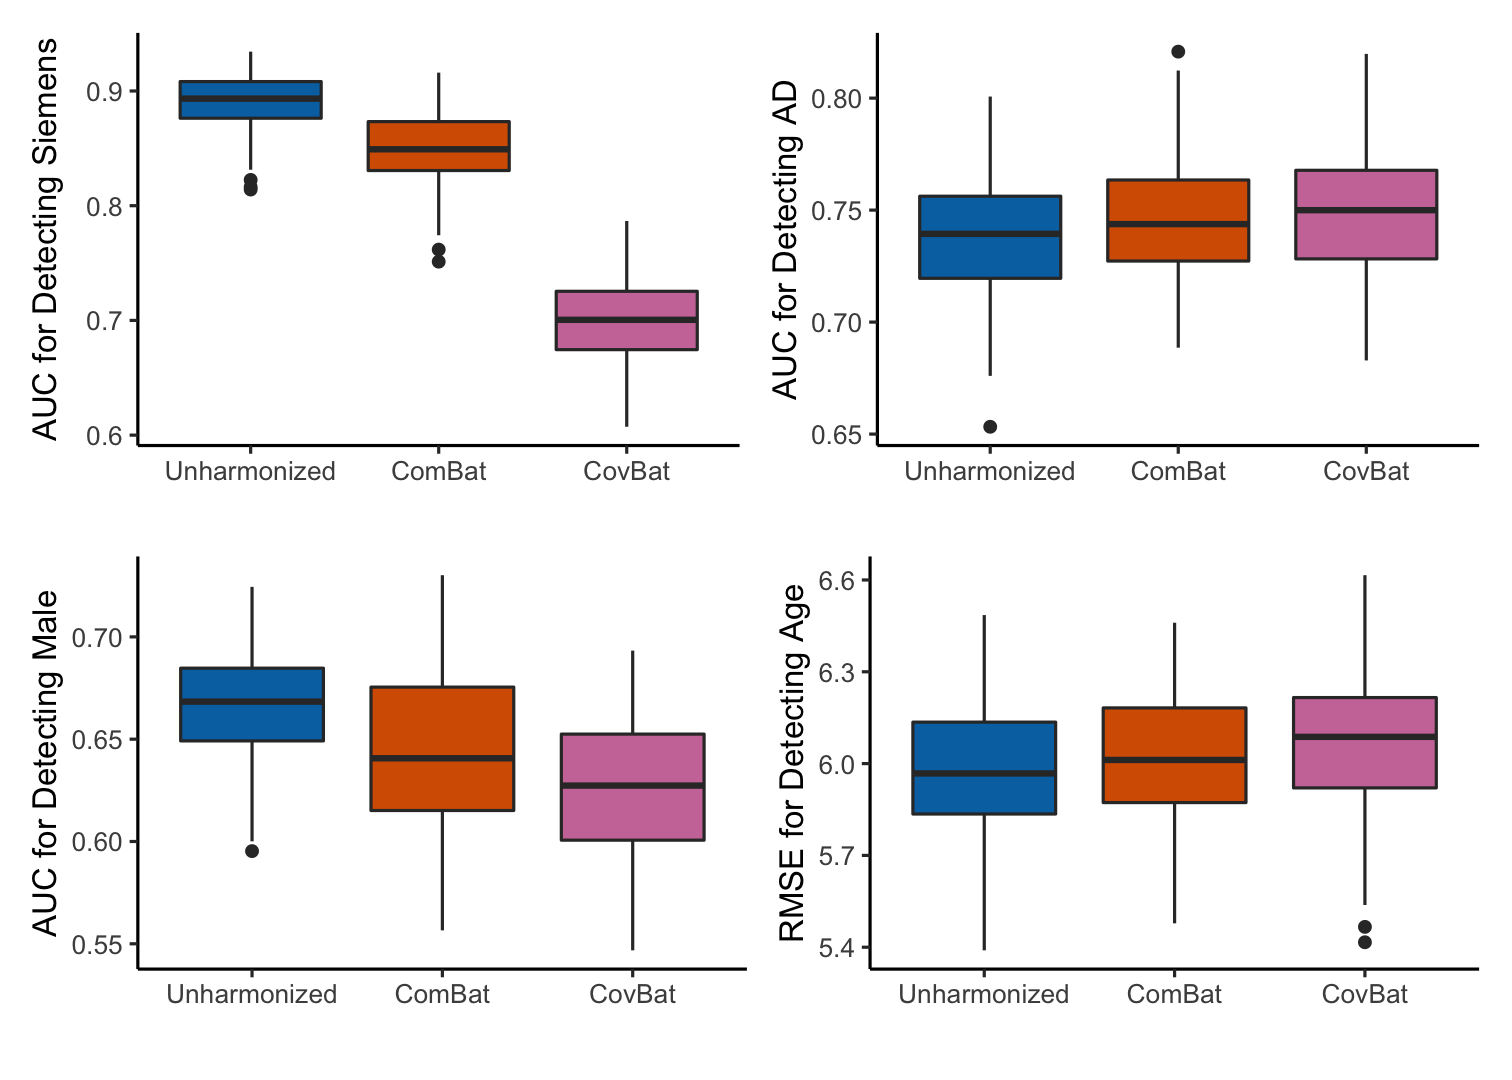
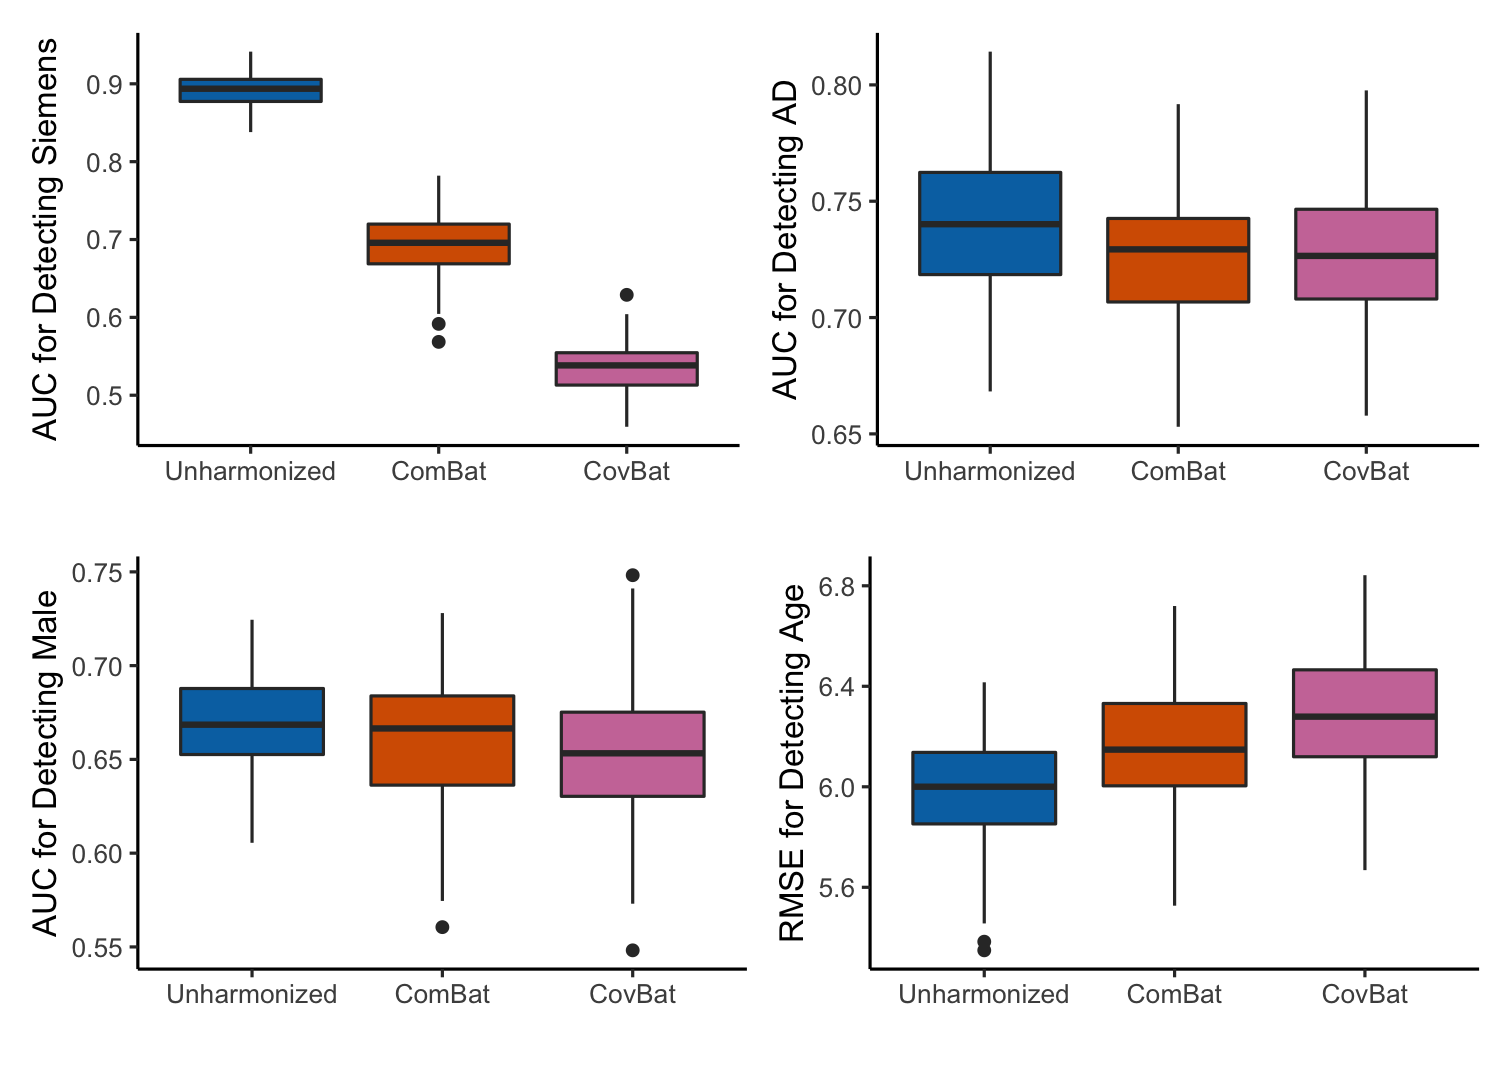
missForest update to ComBat for MVPA slides

diff --git a/b6113c65666718de2b776cce7a603e3961099917/Covariance Harmonization/7-23/ComBat-for-MVPA.html b/b6113c65666718de2b776cce7a603e3961099917/Covariance Harmonization/7-23/ComBat-for-MVPA.html
@@ -133,12 +133,24 @@ For MVPA experiments involving a clinical covariate, we can treat the outcome as
 &lt;img src="ComBat-for-MVPA_files/figure-html/unnamed-chunk-7-1.png" width="60%" style="display: block; margin: auto;" /&gt;
 ---
 
+## Using random forests to impute
+- Here, we show results for a single imputation using random forests using a method called MissForest&lt;sup&gt;1&lt;/sup&gt;
+- To measure the uncertainty of the imputations, the method uses out-of-bag error rates obtained over the bootstrap samples in the random forests
+- For AD and male, the mean proportions of falsely classified are 0.25 (±0.02) and 0.2 (±0.02)
+- For age, the mean NRMSE is 0.11 (±0.004).
+
+&lt;img src="ComBat-for-MVPA_files/figure-html/unnamed-chunk-8-1.png" width="50%" style="display: block; margin: auto;" /&gt;
+
+.footnote[[&lt;sup&gt;1&lt;/sup&gt;Stekhoven and Bühlmann, 2012](https://academic.oup.com/bioinformatics/article/28/1/112/219101)  
+]
+---
+
 ## Solution 4: Learn harmonization mapping
 - In a similar manner as Neuroharmony, we use machine learning to identify a mapping from unharmonized to harmonized data in the training set then apply it to the test set
 - We train separate random forests models for each feature on all unharmonized features as well as scanner manufacturer
     - Then, we get predictions for the testing set using these models
 
-&lt;img src="ComBat-for-MVPA_files/figure-html/unnamed-chunk-8-1.png" width="55%" style="display: block; margin: auto;" /&gt;
+&lt;img src="ComBat-for-MVPA_files/figure-html/unnamed-chunk-9-1.png" width="55%" style="display: block; margin: auto;" /&gt;
 ---
 
 ## Discussion
